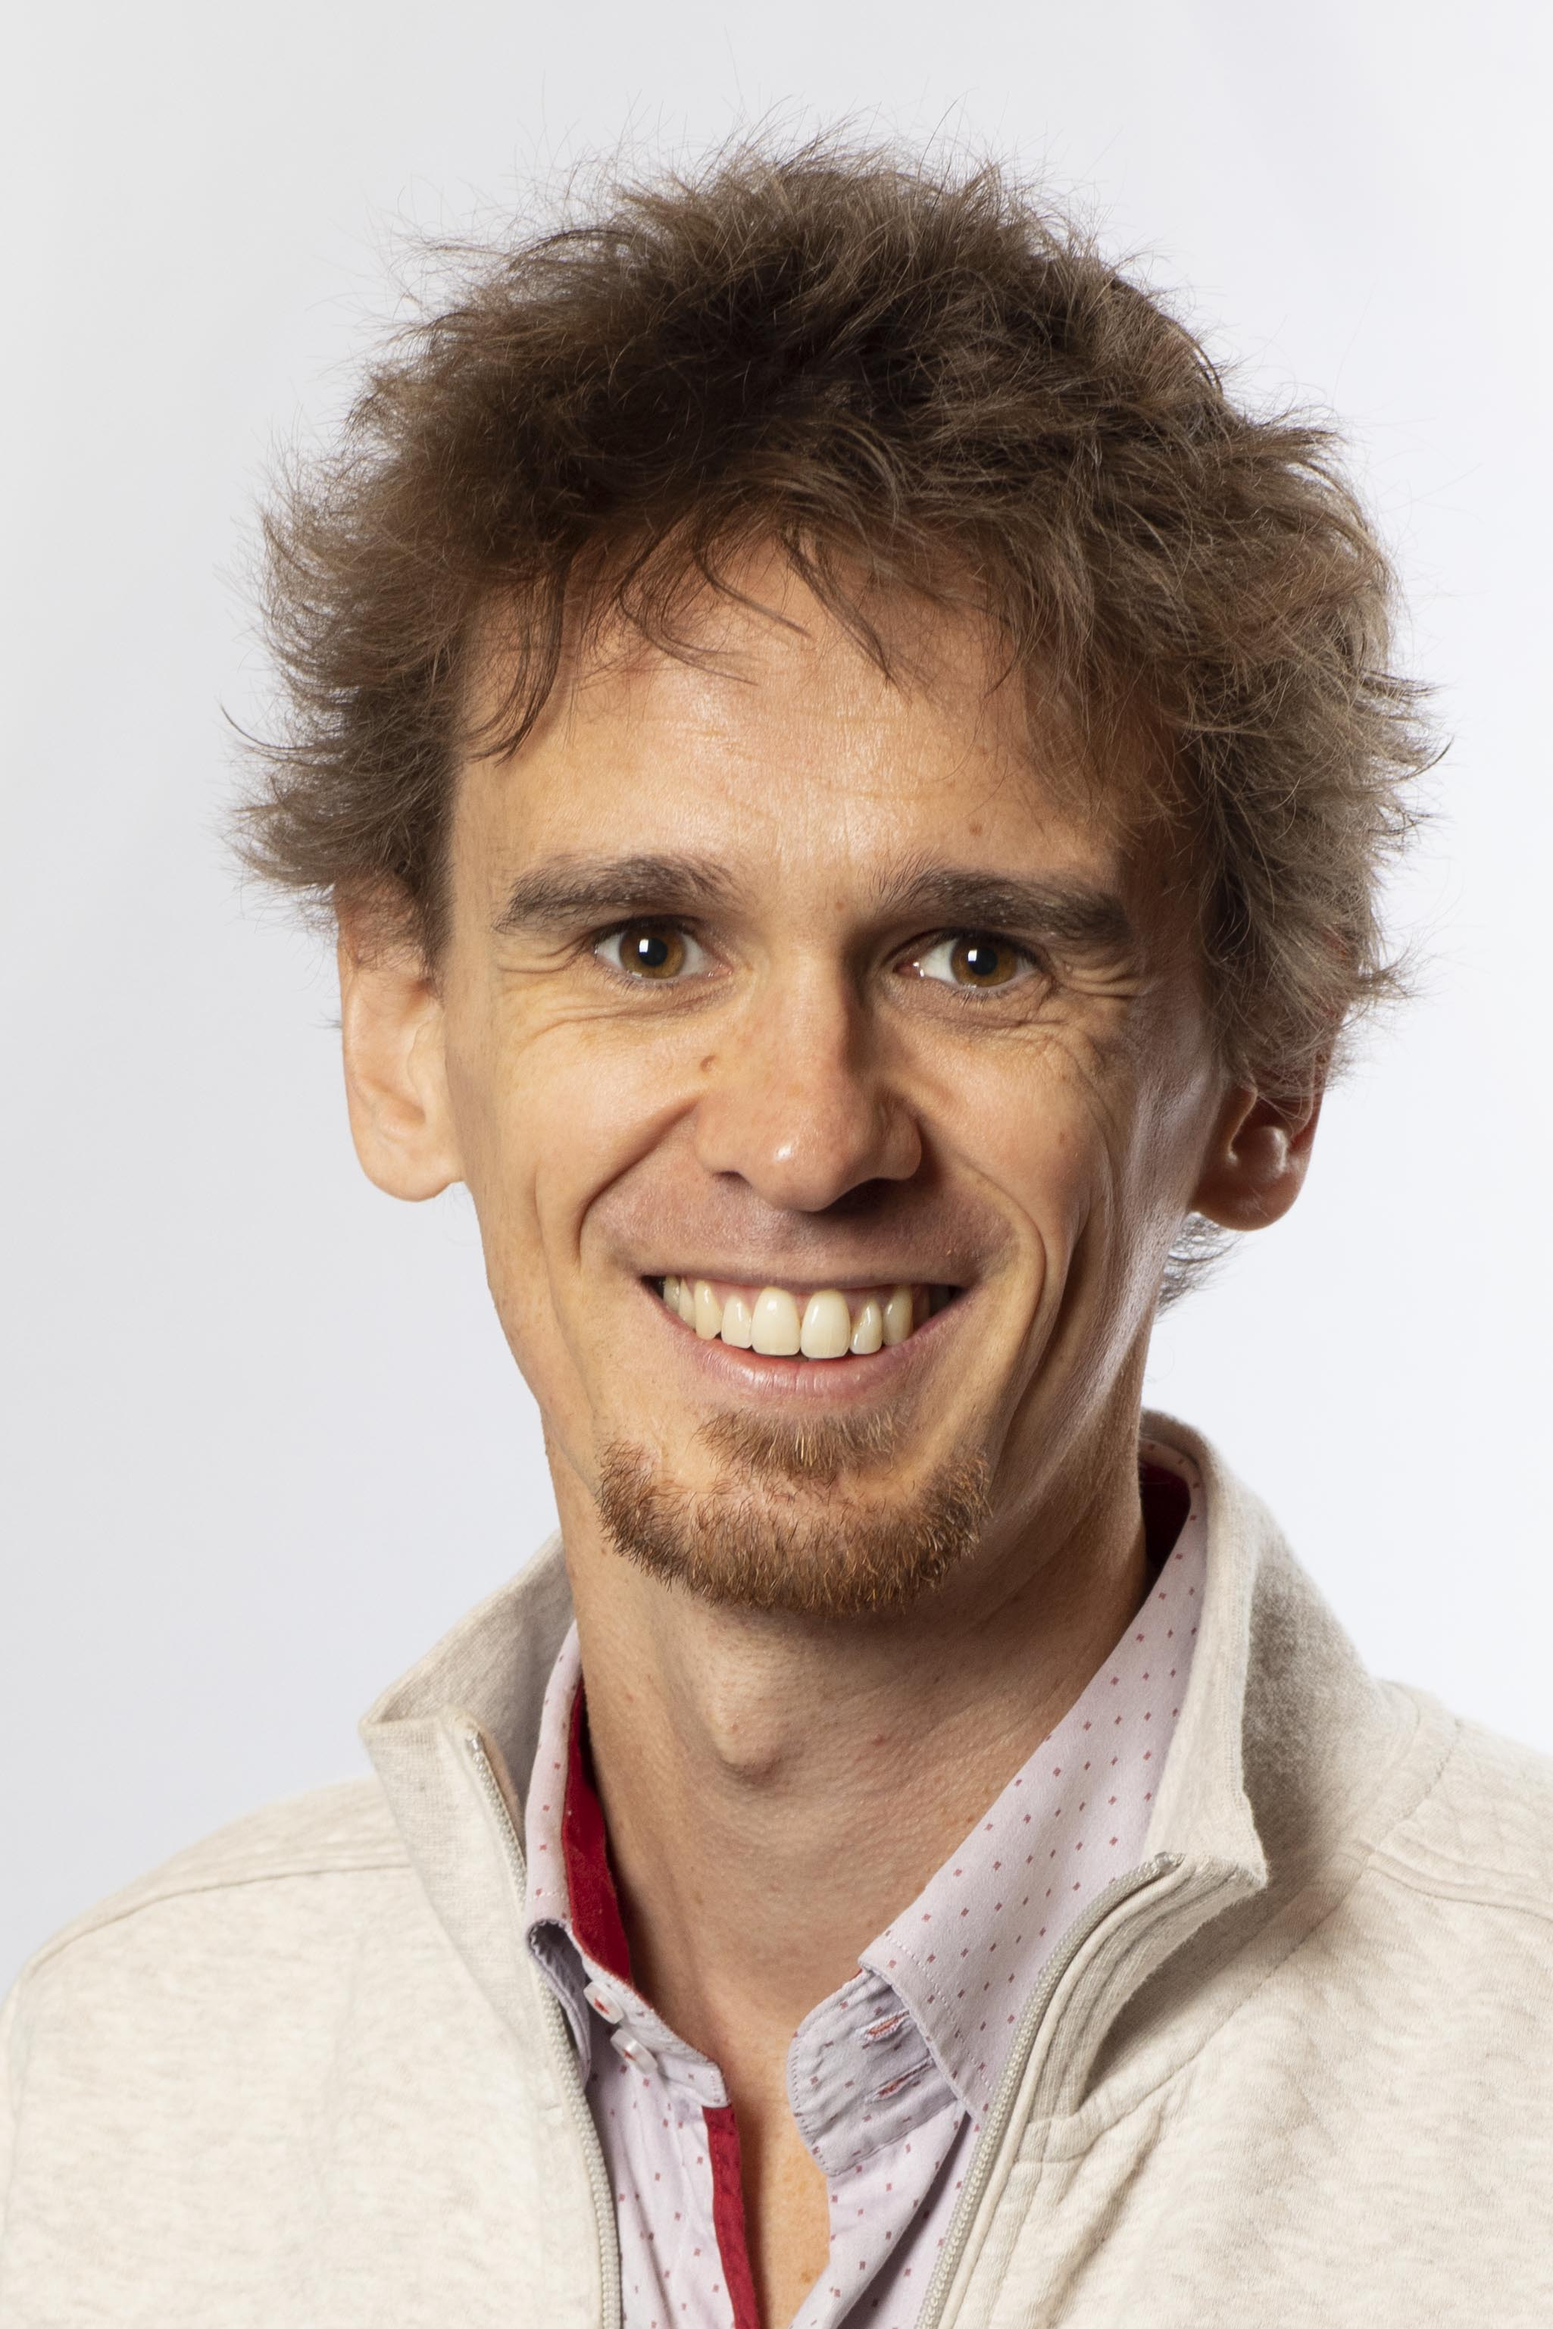
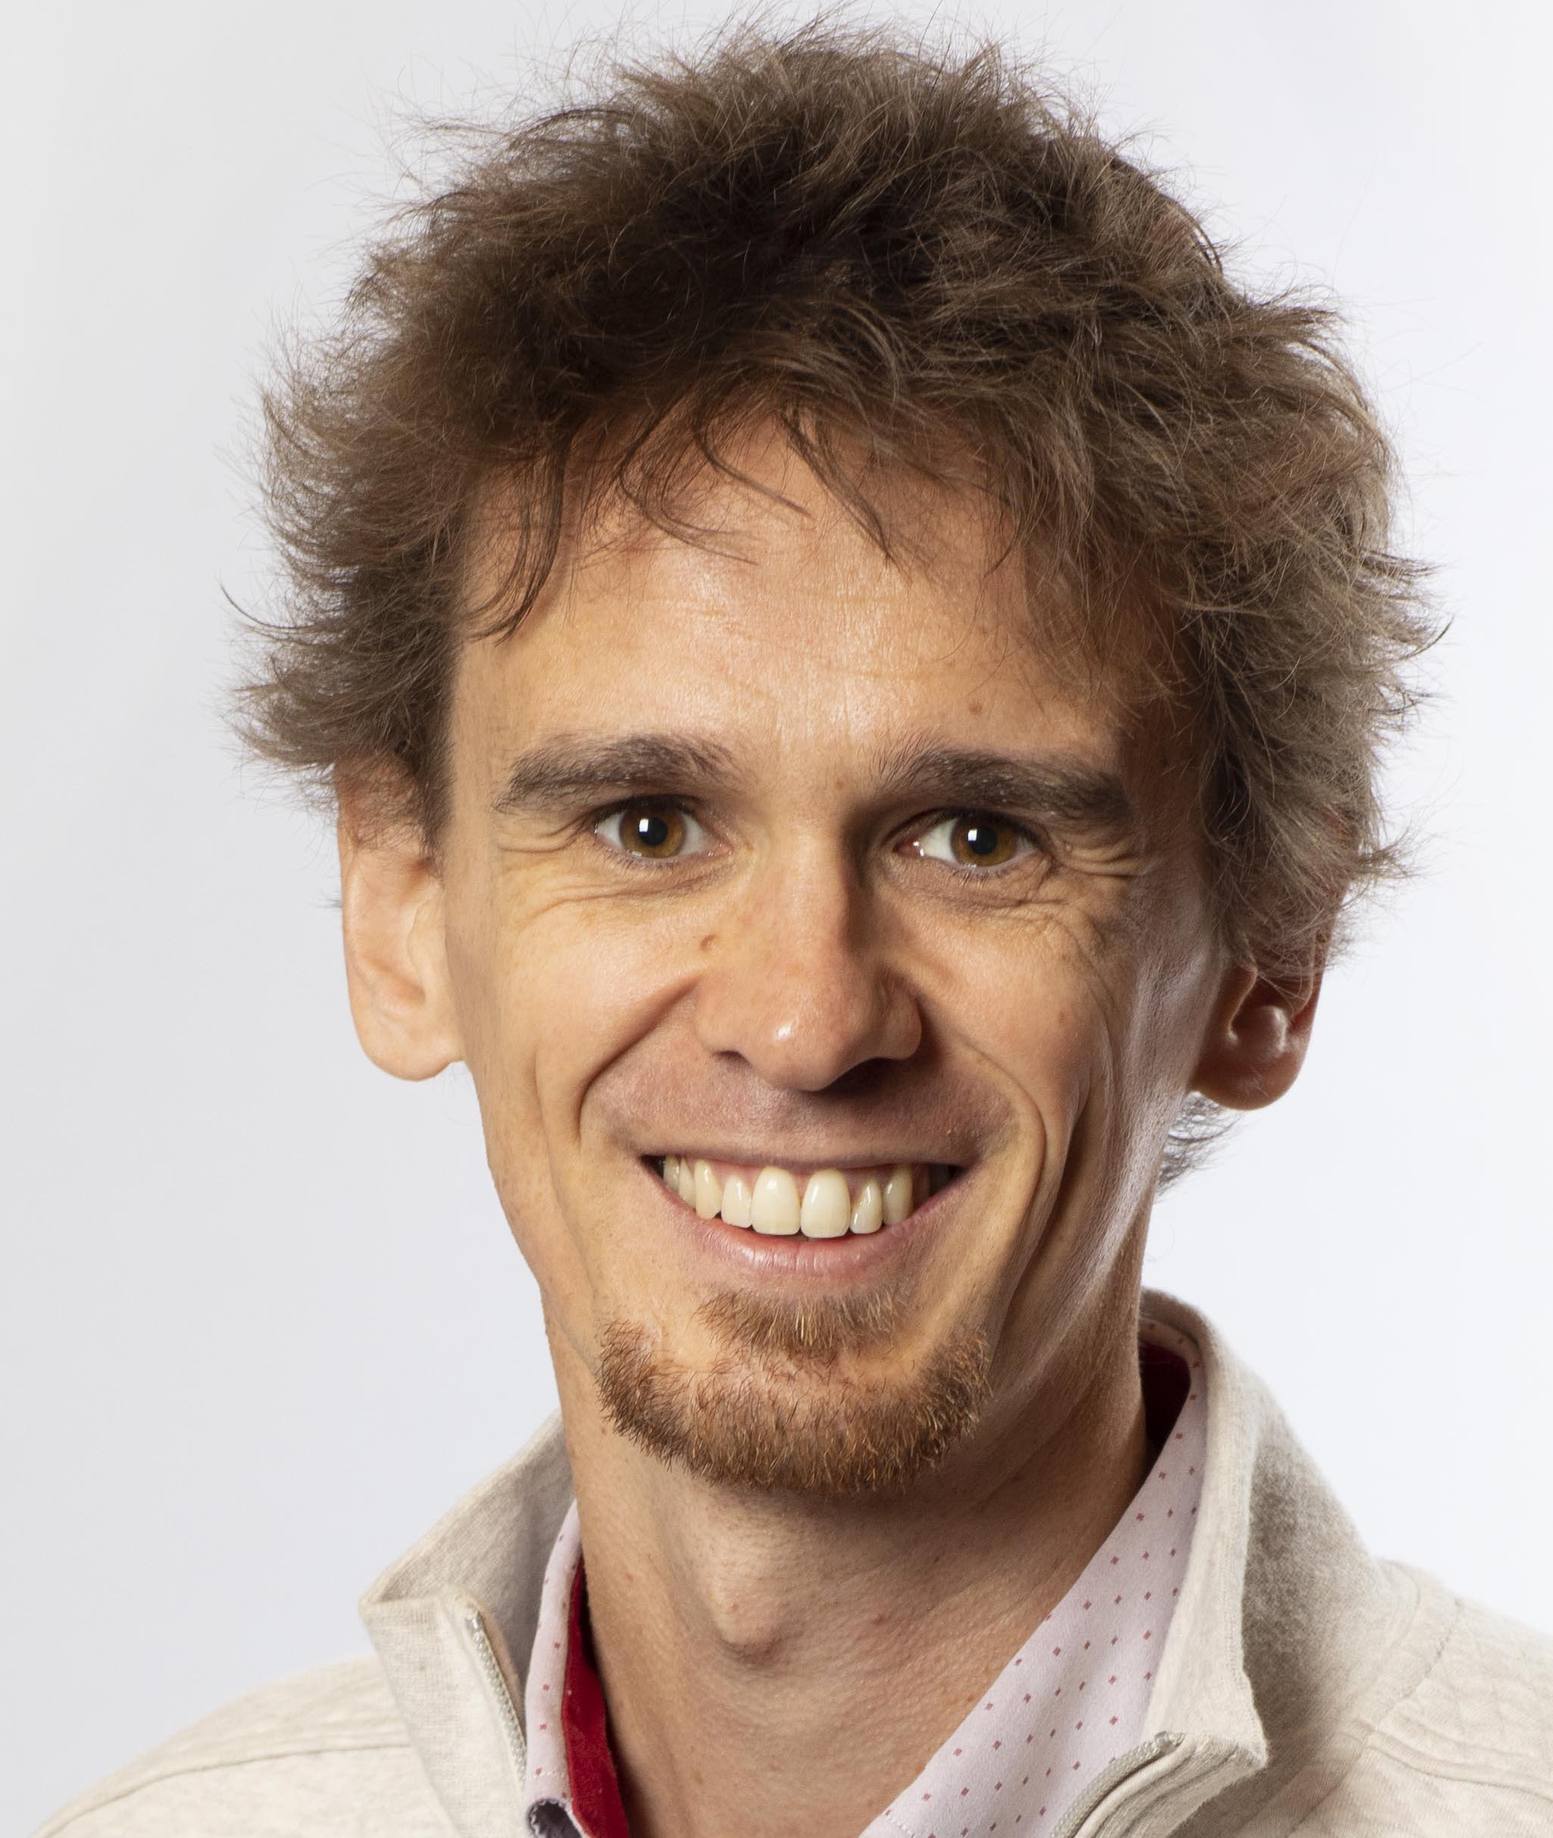
small update

diff --git a/index.md b/index.md
@@ -4,7 +4,7 @@ title: Home
 
 # Video games as a path to a contextualized cognitive science, or How to play 20 questions with nature and win
 
-{% include figure.html img="Newell.jpg" alt="Photo of Simon Newell at a blackboard." caption="Allen Newell" width="75%" %}
+{% include figure.html img="Newell_games.jpg" alt="Photo of Allen Newell at a blackboard." caption="Allen Newell" width="75%" %}
 
 *Update: 4/15/2023 Our workshop proposal was accepted: We hope to see you at CogSci 2023 in Sydney!*
 
